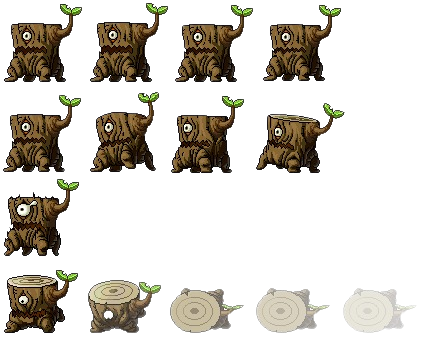
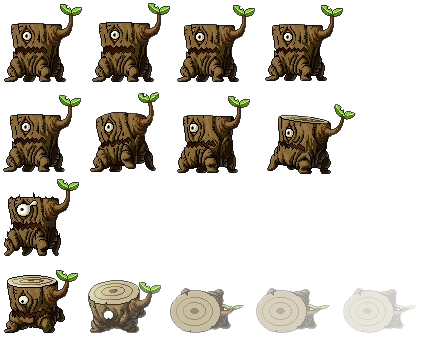
add walking animation to forest monsters

diff --git a/oop2_proj/src/FileManager.cpp b/oop2_proj/src/FileManager.cpp
@@ -336,8 +336,8 @@ void FileManager::createForestMonstersAnimeData()
 	setCurrentData(m_monsterData[LEVEL1][MONSTER1], Stay, movableAnimationSet
 	({ 60, 55 }, { 1, 1 }, 5,3, Stay), 0.01f, false);
 
-	/*setCurrentData(m_monsterData[LEVEL1][MONSTER1], Walk, movableAnimationSet
-	({ 240, 115 }, { 480, 5 }, 2, Walk), 0.01f, false);*/
+	setCurrentData(m_monsterData[LEVEL1][MONSTER1], Walk, movableAnimationSet
+	({ 60, 55 }, { 3, 60 },5, 4, Walk), 0.01f, false);
 
 	// 
 	//setCurrentData(m_monsterData[LEVEL1][MONSTER1], Operation::Hurt, movableAnimationSet
@@ -351,8 +351,8 @@ void FileManager::createForestMonstersAnimeData()
 	setCurrentData(m_monsterData[LEVEL1][MONSTER2], Stay, movableAnimationSet
 	({ 82, 82 }, { 1, 1 },5, 4, Stay), 0.01f, false);
 
-	/*setCurrentData(m_monsterData[LEVEL1][MONSTER2], Walk, movableAnimationSet
-	({ 240, 115 }, { 480, 5 }, 2, Walk), 0.01f, false);*/
+	setCurrentData(m_monsterData[LEVEL1][MONSTER2], Walk, movableAnimationSet
+	({ 82, 82 }, { 1, 90 }, 5, 4, Walk), 0.01f, false);
 
 	// 
 	//setCurrentData(m_monsterData[LEVEL1][MONSTER2], Operation::Hurt, movableAnimationSet
@@ -366,9 +366,8 @@ void FileManager::createForestMonstersAnimeData()
 	setCurrentData(m_monsterData[LEVEL1][MONSTER3], Stay, movableAnimationSet
 	({ 102, 65 }, { 9, 6 },3, 3, Stay), 0.02f, false);
 
-	/*
 	setCurrentData(m_monsterData[LEVEL1][MONSTER3], Walk, movableAnimationSet
-	({ 240, 115 }, { 480, 5 }, 2, Walk), 0.01f, false);*/
+	({ 97, 60 }, { 1, 80 }, 3, 4, Walk), 0.01f, false);
 
 	// 
 	//setCurrentData(m_monsterData[LEVEL1][MONSTER3], Operation::Hurt, movableAnimationSet
@@ -386,8 +385,9 @@ void FileManager::createSnowMonstersAnimeData()
 	setCurrentData(m_monsterData[LEVEL2][MONSTER1], Stay, movableAnimationSet
 	({ 34, 35 }, { 1, 7 },11,5, Stay), 0.01f, false);
 
-	//setCurrentData(m_monsterData[LEVEL2][MONSTER1], Walk, movableAnimationSet
-	//({ 240, 115 }, { 480, 5 }, 2, Walk), 0.01f, false);
+	//
+	setCurrentData(m_monsterData[LEVEL2][MONSTER1], Walk, movableAnimationSet
+	({ 34, 35 }, { 1, 7 }, 11, 5, Stay), 0.01f, false);
 
 	// 
 	//setCurrentData(m_monsterData[LEVEL2][MONSTER1], Operation::Hurt, movableAnimationSet
@@ -401,8 +401,9 @@ void FileManager::createSnowMonstersAnimeData()
 	setCurrentData(m_monsterData[LEVEL2][MONSTER2], Stay, movableAnimationSet
 	({ 112, 65 }, { 13, 36 },40,4, Stay), 0.02f, false);
 
-	//setCurrentData(m_monsterData[LEVEL2][MONSTER2], Walk, movableAnimationSet
-	//({ 240, 115 }, { 480, 5 }, 2, Walk), 0.01f, false);
+	//
+	setCurrentData(m_monsterData[LEVEL2][MONSTER2], Walk, movableAnimationSet
+	({ 112, 65 }, { 13, 36 }, 40, 4, Stay), 0.02f, false);
 
 	// 
 	//setCurrentData(m_monsterData[LEVEL2][MONSTER2], Operation::Hurt, movableAnimationSet
@@ -416,8 +417,9 @@ void FileManager::createSnowMonstersAnimeData()
 	setCurrentData(m_monsterData[LEVEL2][MONSTER3], Stay, movableAnimationSet
 	({ 38, 40 }, { 1, 6 }, 8,3, Stay), 0.02f, false);
 
-	//setCurrentData(m_monsterData[LEVEL2][MONSTER3], Walk, movableAnimationSet
-	//({ 240, 115 }, { 480, 5 }, 2, Walk), 0.01f, false);
+	//
+	setCurrentData(m_monsterData[LEVEL2][MONSTER3], Walk, movableAnimationSet
+	({ 38, 40 }, { 1, 6 }, 8, 3, Stay), 0.02f, false);
 
 	// 
 	//setCurrentData(m_monsterData[LEVEL2][MONSTER3], Operation::Hurt, movableAnimationSet
@@ -435,8 +437,9 @@ void FileManager::createDesertMonstersAnimeData()
 	setCurrentData(m_monsterData[LEVEL3][MONSTER1], Stay, movableAnimationSet
 	({ 67, 76 }, { 1, 5 },9, 6, Stay), 0.02f, false);
 
-	/*setCurrentData(m_monsterData[LEVEL3][MONSTER1], Walk, movableAnimationSet
-	({ 240, 115 }, { 480, 5 }, 2, Walk), 0.01f, false);*/
+	//
+	setCurrentData(m_monsterData[LEVEL3][MONSTER1], Walk, movableAnimationSet
+	({ 67, 76 }, { 1, 5 },9, 6, Stay), 0.02f, false);
 
 	// 
 	//setCurrentData(m_monsterData[LEVEL3][MONSTER1], Operation::Hurt, movableAnimationSet
@@ -450,8 +453,9 @@ void FileManager::createDesertMonstersAnimeData()
 	setCurrentData(m_monsterData[LEVEL3][MONSTER2], Stay, movableAnimationSet
 	({ 48, 94 }, { 1, 1 },11,9, Stay), 0.01f, false);
 
-	//setCurrentData(m_monsterData[LEVEL3][MONSTER2], Walk, movableAnimationSet
-	//({ 240, 115 }, { 480, 5 }, 2, Walk), 0.01f, false);
+	//
+	setCurrentData(m_monsterData[LEVEL3][MONSTER2], Walk, movableAnimationSet
+	({ 48, 94 }, { 1, 1 }, 11, 9, Stay), 0.01f, false);
 
 	// 
 	//setCurrentData(m_monsterData[LEVEL3][MONSTER2], Operation::Hurt, movableAnimationSet
@@ -465,8 +469,9 @@ void FileManager::createDesertMonstersAnimeData()
 	setCurrentData(m_monsterData[LEVEL3][MONSTER3], Stay, movableAnimationSet
 	({ 55, 42 }, { 8, 11 }, 6,11, Stay), 0.01f, false);
 
-	/*setCurrentData(m_monsterData[LEVEL3][MONSTER3], Walk, movableAnimationSet
-	({ 240, 115 }, { 480, 5 }, 2, Walk), 0.01f, false);*/
+	//
+	setCurrentData(m_monsterData[LEVEL3][MONSTER3], Walk, movableAnimationSet
+	({ 55, 42 }, { 8, 11 }, 6,11, Stay), 0.01f, false);
 
 	// 
 	//setCurrentData(m_monsterData[LEVEL3][MONSTER3], Operation::Hurt, movableAnimationSet

diff --git a/oop2_proj/src/MovingSrc/Monster.cpp b/oop2_proj/src/MovingSrc/Monster.cpp
@@ -144,7 +144,7 @@ sf::Vector2f Monster::getMove()
 
 	if (movementClock.getElapsedTime().asSeconds() <= 2)
 	{
-		m_animation.operation(Operation::Stay);
+		m_animation.operation(Operation::Walk);
 		return m_lastDir;
 	}
 	else if (movementClock.getElapsedTime().asSeconds() <= 4)
@@ -154,7 +154,7 @@ sf::Vector2f Monster::getMove()
 	}
 	else if (movementClock.getElapsedTime().asSeconds() <= 6)
 	{
-		m_animation.operation(Operation::Stay);
+		m_animation.operation(Operation::Walk);
 		return m_lastDir;
 	}
 	else if (movementClock.getElapsedTime().asSeconds() >= 6 &&
